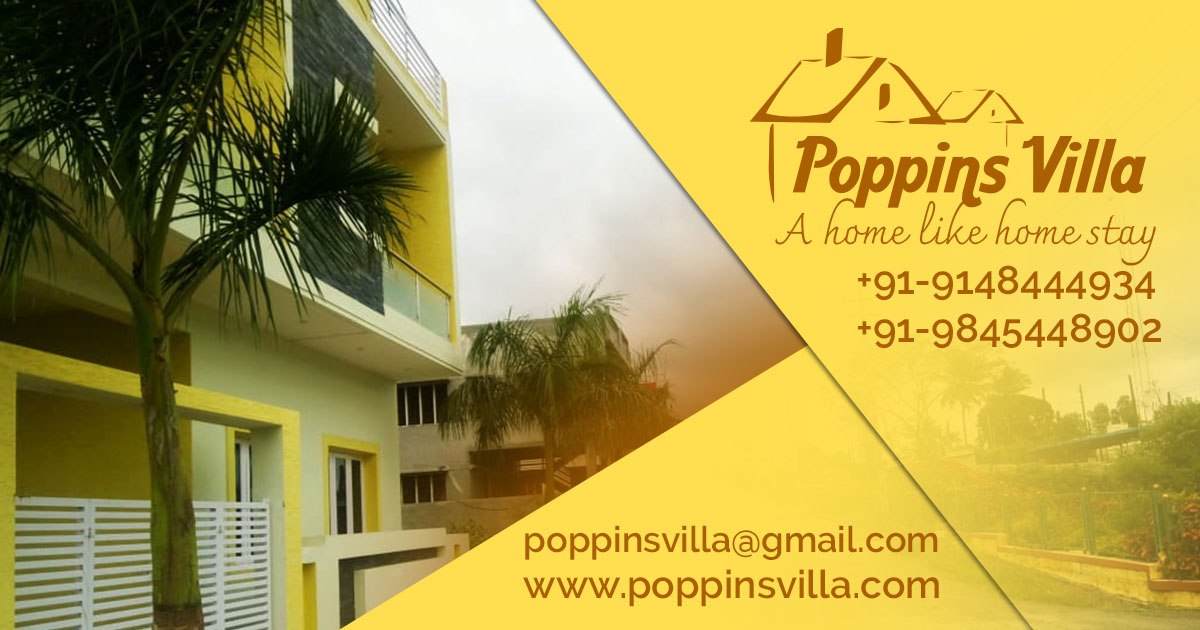
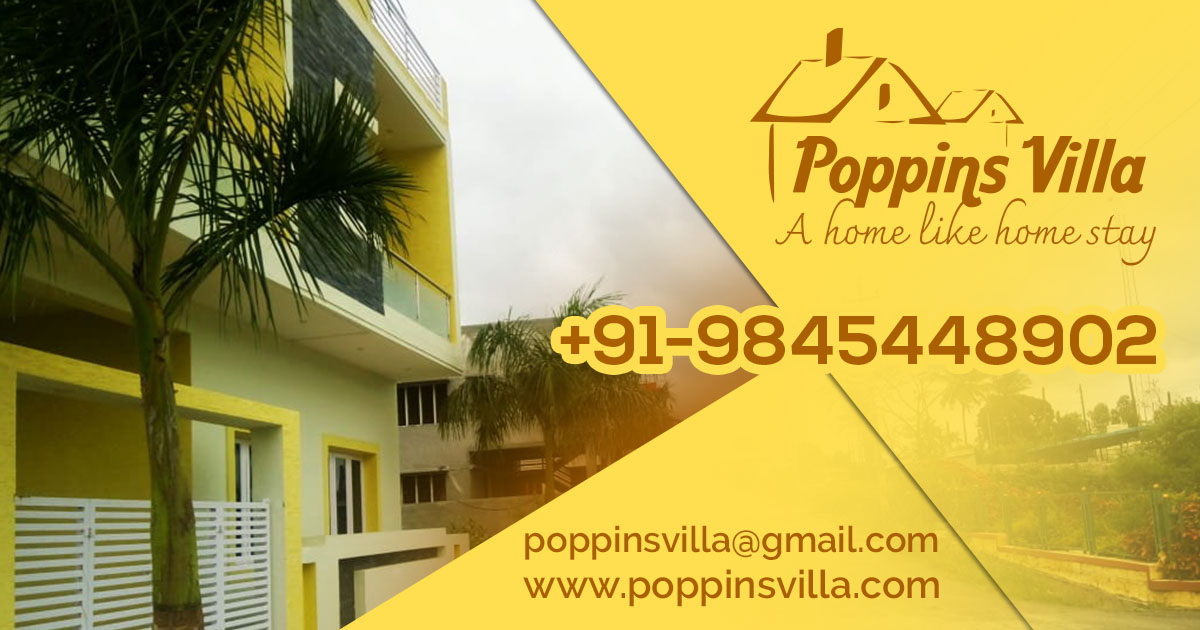
site refactored - map added

Changed region(s): [[0.4625, 0.4222, 0.9867, 0.6032]]

diff --git a/components/icons/SvgSprite.vue b/components/icons/SvgSprite.vue
@@ -17,15 +17,6 @@
       <symbol id="fa-phone" viewBox="0 0 512 512">
         <path fill="currentColor" d="M164.9 24.6c-7.7-18.6-28-28.5-47.4-23.2l-88 24C12.1 30.2 0 46 0 64C0 311.4 200.6 512 448 512c18 0 33.8-12.1 38.6-29.5l24-88c5.3-19.4-4.6-39.7-23.2-47.4l-96-40c-16.3-6.8-35.2-2.1-46.3 11.6L304.7 368C234.3 334.7 177.3 277.7 144 207.3L193.3 167c13.7-11.2 18.4-30 11.6-46.3l-40-96z"/>
       </symbol>
-      <symbol id="fa-atom" viewBox="0 0 512 512">
-        <path fill="currentColor" d="M256 398.8c-11.8 5.1-23.4 9.7-34.9 13.5c16.7 33.8 31 35.7 34.9 35.7s18.1-1.9 34.9-35.7c-11.4-3.9-23.1-8.4-34.9-13.5zM446 256c33 45.2 44.3 90.9 23.6 128c-20.2 36.3-62.5 49.3-115.2 43.2c-22 52.1-55.6 84.8-98.4 84.8s-76.4-32.7-98.4-84.8c-52.7 6.1-95-6.8-115.2-43.2C21.7 346.9 33 301.2 66 256c-33-45.2-44.3-90.9-23.6-128c20.2-36.3 62.5-49.3 115.2-43.2C179.6 32.7 213.2 0 256 0s76.4 32.7 98.4 84.8c52.7-6.1 95 6.8 115.2 43.2c20.7 37.1 9.4 82.8-23.6 128zm-65.8 67.4c-1.7 14.2-3.9 28-6.7 41.2c31.8 1.4 38.6-8.7 40.2-11.7c2.3-4.2 7-17.9-11.9-48.1c-6.8 6.3-14 12.5-21.6 18.6zm-6.7-175.9c2.8 13.1 5 26.9 6.7 41.2c7.6 6.1 14.8 12.3 21.6 18.6c18.9-30.2 14.2-44 11.9-48.1c-1.6-2.9-8.4-13-40.2-11.7zM290.9 99.7C274.1 65.9 259.9 64 256 64s-18.1 1.9-34.9 35.7c11.4 3.9 23.1 8.4 34.9 13.5c11.8-5.1 23.4-9.7 34.9-13.5zm-159 88.9c1.7-14.3 3.9-28 6.7-41.2c-31.8-1.4-38.6 8.7-40.2 11.7c-2.3 4.2-7 17.9 11.9 48.1c6.8-6.3 14-12.5 21.6-18.6zM110.2 304.8C91.4 335 96 348.7 98.3 352.9c1.6 2.9 8.4 13 40.2 11.7c-2.8-13.1-5-26.9-6.7-41.2c-7.6-6.1-14.8-12.3-21.6-18.6zM336 256a80 80 0 1 0 -160 0 80 80 0 1 0 160 0zm-80-32a32 32 0 1 1 0 64 32 32 0 1 1 0-64z"/>
-      </symbol>
-      <symbol id="fa-snowflake" viewBox="0 0 448 512">
-        <path fill="currentColor" d="M224 0c17.7 0 32 14.3 32 32V62.1l15-15c9.4-9.4 24.6-9.4 33.9 0s9.4 24.6 0 33.9l-49 49v70.3l61.4-35.8 17.7-66.1c3.4-12.8 16.6-20.4 29.4-17s20.4 16.6 17 29.4l-5.2 19.3 23.6-13.8c15.3-8.9 34.9-3.7 43.8 11.5s3.8 34.9-11.5 43.8l-25.3 14.8 21.7 5.8c12.8 3.4 20.4 16.6 17 29.4s-16.6 20.4-29.4 17l-67.7-18.1L287.5 256l60.9 35.5 67.7-18.1c12.8-3.4 26 4.2 29.4 17s-4.2 26-17 29.4l-21.7 5.8 25.3 14.8c15.3 8.9 20.4 28.5 11.5 43.8s-28.5 20.4-43.8 11.5l-23.6-13.8 5.2 19.3c3.4 12.8-4.2 26-17 29.4s-26-4.2-29.4-17l-17.7-66.1L256 311.7v70.3l49 49c9.4 9.4 9.4 24.6 0 33.9s-24.6 9.4-33.9 0l-15-15V480c0 17.7-14.3 32-32 32s-32-14.3-32-32V449.9l-15 15c-9.4 9.4-24.6 9.4-33.9 0s-9.4-24.6 0-33.9l49-49V311.7l-61.4 35.8-17.7 66.1c-3.4 12.8-16.6 20.4-29.4 17s-20.4-16.6-17-29.4l5.2-19.3L48.1 395.6c-15.3 8.9-34.9 3.7-43.8-11.5s-3.7-34.9 11.5-43.8l25.3-14.8-21.7-5.8c-12.8-3.4-20.4-16.6-17-29.4s16.6-20.4 29.4-17l67.7 18.1L160.5 256 99.6 220.5 31.9 238.6c-12.8 3.4-26-4.2-29.4-17s4.2-26 17-29.4l21.7-5.8L15.9 171.6C.6 162.7-4.5 143.1 4.4 127.9s28.5-20.4 43.8-11.5l23.6 13.8-5.2-19.3c-3.4-12.8 4.2-26 17-29.4s26 4.2 29.4 17l17.7 66.1L192 200.3V129.9L143 81c-9.4-9.4-9.4-24.6 0-33.9s24.6-9.4 33.9 0l15 15V32c0-17.7 14.3-32 32-32z"/>
-      </symbol>
-      <symbol id="fa-star-shine" viewBox="0 0 512 512">
-        <path fill="currentColor" d="M257.42,251.12l103.6,15.29c8.65,1.3,15.79,7.36,18.53,15.65,2.74,8.29.5,17.45-5.7,23.58l-75.12,74.35,17.81,105.07c1.44,8.65-2.16,17.38-9.3,22.57-7.14,5.19-16.58,5.77-24.37,1.66l-92.5-49.4-92.5,49.4c-7.79,4.11-17.23,3.46-24.37-1.66-7.14-5.12-10.74-13.92-9.3-22.57l17.74-105.07L6.82,305.64c-6.2-6.13-8.36-15.29-5.7-23.58,2.67-8.29,9.88-14.35,18.53-15.65l103.53-15.29,46.36-95.41c3.89-7.93,11.9-12.98,20.76-12.98s16.94,5.05,20.76,12.98l46.36,95.41ZM414.29,79.32c0-10.27-24.42-18.93-57.72-21.59C353.91,24.42,345.26,0,334.99,0s-18.92,24.42-21.58,57.74c-33.3,2.66-57.72,11.31-57.72,21.59s24.42,18.93,57.72,21.59c2.66,33.31,11.31,57.74,21.58,57.74s18.92-24.42,21.58-57.74c33.3-2.66,57.72-11.31,57.72-21.59ZM512,223.27c0-8.37-19.89-15.42-47.02-17.59-2.17-27.14-9.21-47.04-17.58-47.04s-15.42,19.9-17.58,47.04c-27.13,2.17-47.02,9.22-47.02,17.59s19.89,15.42,47.02,17.59c2.17,27.14,9.21,47.04,17.58,47.04s15.41-19.9,17.58-47.04c27.13-2.17,47.02-9.22,47.02-17.59Z"/>
-      </symbol>
 
       <!-- icon-regular -->
       <symbol id="app-logo" viewBox="0 0 220 100">
@@ -40,17 +31,8 @@
       <symbol id="icon-angle-left" viewBox="0 0 16 16">
         <path fill="currentColor" d="M7.36,8l3.36,3.48-1.08,1.04-4.37-4.52L9.65,3.48l1.08,1.04-3.36,3.48Z" style="fill-rule: evenodd;"/>
       </symbol>
-      <symbol id="icon-send" viewBox="0 0 16 16">
-        <path fill="currentColor" d="M14.49,2.68c-.27-.48-.76-.76-1.31-.76H2.82c-.61,0-1.15,.36-1.39,.93-.23,.56-.11,1.2,.33,1.64l3.33,3.33,1.13,5.1c.13,.6,.62,1.06,1.22,1.16,.08,.01,.16,.02,.24,.02,.52,0,1.01-.27,1.28-.73L14.47,4.19c.28-.47,.29-1.03,.02-1.51Zm-2.92,.74l-5.67,3.09L2.82,3.42H11.57Zm-3.89,9.17l-1.06-4.76,5.82-3.17-4.76,7.93Z"/>
-      </symbol>
       <symbol id="icon-user" viewBox="0 0 16 16">
         <path fill="currentColor" d="M13.74,13.86v.74h-1.48v-.74c0-1.2-1.01-2.26-2.42-2.26h-3.67c-1.37,0-2.42,1.01-2.42,2.26v.74h-1.48v-.74c0-2.16,1.82-3.74,3.91-3.74h3.67c2.18,0,3.91,1.67,3.91,3.74ZM5.32,7.78c-1.37-1.47-1.51-3.86,.03-5.32,1.49-1.41,3.77-1.41,5.26,0h.01v.02c1.49,1.49,1.51,3.89,0,5.34-1.46,1.38-3.84,1.52-5.29-.03Zm1.1-1.02c.8,.86,2.22,.86,3.16-.03,.88-.83,.9-2.26,0-3.19-.91-.86-2.28-.85-3.19,0-.86,.81-.86,2.26,.03,3.21Z" style="fill-rule: evenodd;"/>
-      </symbol>
-      <symbol id="icon-check" viewBox="0 0 24 24">
-        <path fill="currentColor" d="M21.06,6.5l-12.06,12.06L2.94,12.5l1.06-1.06,5,5L20,5.44l1.06,1.06Z"/>
-      </symbol>
-      <symbol id="icon-plus" viewBox="0 0 16 16">
-        <polygon fill="currentColor" points="14 7 8.75 7 8.75 1.75 7.25 1.75 7.25 7 2 7 2 8.5 7.25 8.5 7.25 13.75 8.75 13.75 8.75 8.5 14 8.5 14 7" style="fill-rule:evenodd;"/>
       </symbol>
       <symbol id="icon-arrow-back" viewBox="0 0 16 16">
         <path d="m7.36,8l3.36,3.48-1.08,1.04-4.37-4.52,4.37-4.52,1.08,1.04-3.36,3.48Z" fill="currentColor"/>

diff --git a/components/about-us.vue b/components/about-us.vue
@@ -1,10 +1,21 @@
 <template lang="pug">
-.flex.flex.flex-col.items-center.gap-8.py-20.text-center.lg_flex-row
-  div(class='w-1/2')
-    h1.mb-4.font-display.text-4xl.text-blue-800
-      span.block.md_inline Welcome to&nbsp;
-      span.font-bold Poppins Villa
-    p.text-gray-600 We have been in the hospitality industry for over a decade, connecting people from around the world and building strong relationships with our guests. Our strength lies in having satisfied and happy guests. We believe in the philosophy of 'Aditi devo bhava.' Located amidst Mysuru's must-visit places, we invite you to experience a heavenly stay with us.
-  div(class='w-1/2')
+.grid.gap-8.pb-4.pt-10.md_grid-cols-2.md_py-20.lg_flex-row
+  .flex
+    .m-auto.text-center
+      h1.mb-4.font-display.text-4xl.text-blue-800
+        span.block.lg_inline Welcome to&nbsp;
+        span.font-bold Poppins Villa
+      p.text-gray-600 We have been in the hospitality industry for over a decade, connecting people from around the world and building strong relationships with our guests. Our strength lies in having satisfied and happy guests. We believe in the philosophy of 'Aditi devo bhava.' Located amidst Mysuru's must-visit places, we invite you to experience a heavenly stay with us.
+
+      hr.my-4
+
+      .mb-2.font-display.text-2xl.text-blue-800 Location
+      address.mx-auto.max-w-lg
+        a(href='//maps.google.com/?q=12.376556,76.667854' target='_blank')
+          | Poppins Villa (opp. Poojari's Fish Land), Bangalore - Mysuru Road, Kalasthavadi , Mysuru - 570003,
+      div
+        | Call:&nbsp;
+        a(href='tel:+91-9845448902' aria-label='Call Us') +91-9845448902
+  div
     img(src='/assets/images/og-img.jpg' alt='Poppins Villa intro image')
 </template>

diff --git a/components/MainHeader.vue b/components/MainHeader.vue
@@ -11,19 +11,15 @@ header.bg-white(role='banner')
           social-links
             //- social icons render here
 
-      .ml-auto.text-sm.md_text-base(role='navigation')
+      .ml-auto.font-display(role='navigation')
         .gap-x-4.pr-4.text-right.sm_ml-0.sm_flex
           .flex.flex-col.items-end
-            .mb-1.flex.items-center
-              div
-                div
-                  a(href='tel:+91-9148444934' aria-label='Call us # one') +91-9148444934
-                div
-                  a(href='tel:+91-9845448902' aria-label='Call us # two') +91-9845448902
+            .flex.items-center
+              a.text-lg.md_text-xl(href='tel:+91-9845448902' aria-label='Call us # two') +91-9845448902
               svg.ml-1.h-4.w-4.text-amber-600
                 use(href='#fa-phone')
             .flex.items-center
-              a(href='mailto:poppinsvilla@gmail.com' aria-label='Email us') poppinsvilla@gmail.com
+              a.text-sm.md_text-base(href='mailto:poppinsvilla@gmail.com' aria-label='Email us') poppinsvilla@gmail.com
               svg.ml-2.h-4.w-4.text-amber-600
                 use(href='#fa-envelope')
 </template>

diff --git a/components/MainFooter.vue b/components/MainFooter.vue
@@ -1,10 +1,16 @@
 <template lang="pug">
-footer.flex.flex-col.items-center.bg-amber-200.p-4
-  nav.mb-2
-    .grid.grid-flow-col.gap-4
-      social-links.flex.items-center.gap-2
-        //- social icons render here
+footer.bg-amber-200
+  .flex.justify-center.p-4
+    social-links.flex.items-center.gap-2
+      //- social icons render here
 
-  aside
-    p Copyright &copy; - All rights reserved.
+  aside.flex.flex-col.bg-amber-900.p-4.text-center.text-amber-500.md_flex-row
+    .md_mr-auto Copyright &copy; - All rights reserved.
+    div
+      | Designed and Developed with ❤ by&nbsp;
+      a.text-amber-200.hover_text-white(
+        href='www.itdevz.com'
+        target='_blank'
+        aria-label='Go to Designer/Developer website'
+      ) www.itdevz.com
 </template>

diff --git a/pages/index.vue b/pages/index.vue
@@ -5,9 +5,19 @@ div
 
   main.font-sans.text-gray-700
     .px-4
-      .container
+      .md_container
         about-us
           //- about-us render here
+
+    iframe(
+      src='https://www.google.com/maps/embed?pb=!1m17!1m12!1m3!1d3897.0951857301447!2d76.66527907506641!3d12.376555987886855!2m3!1f0!2f0!3f0!3m2!1i1024!2i768!4f13.1!3m2!1m1!2zMTLCsDIyJzM1LjYiTiA3NsKwNDAnMDQuMyJF!5e0!3m2!1sen!2sin!4v1711342887870!5m2!1sen!2sin'
+      width='100%'
+      height='450'
+      style='border: 0'
+      allowfullscreen
+      loading='lazy'
+      referrerpolicy='no-referrer-when-downgrade'
+    )
 </template>
 
 <script lang="ts" setup>

diff --git a/components/MainHero.vue b/components/MainHero.vue
@@ -12,7 +12,7 @@ swiper(
     .swiper-slide-size
       img.h-full.w-full.object-cover(:src='item.image' :alt='item.title')
       .swiper-slide-text-overlay
-        h2.font-display.text-2xl.font-bold.sm_text-3xl.lg_text-4xl {{ item.title }}
+        h2.text-2xl.font-bold.sm_text-3xl.lg_text-4xl {{ item.title }}
 </template>
 
 <script setup lang="ts">

diff --git a/components/SocialLinks.vue b/components/SocialLinks.vue
@@ -1,6 +1,6 @@
 <template lang="pug">
 div
-  small.hidden.text-amber-600.md_block FOLLOW US ON
+  small.font-display.text-amber-600.md_block FOLLOW US ON
   .flex.items-center
     a(target='_blank' href='//www.facebook.com/share/EJnZedZvFj8tV25Z')
       svg.h-6.w-6
